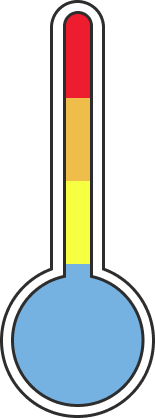
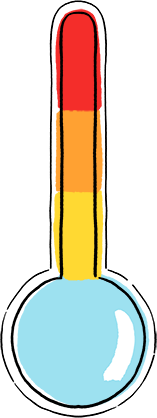
New graphics

diff --git a/src/styles.scss b/src/styles.scss
@@ -621,8 +621,6 @@ footer a {
 
   .thermo-left {
     flex: 1 1 55%;
-    background: linear-gradient(to top, #7FD3ED, #A9B758);
-    border-radius: 1rem 0 0 1rem;
   }
 
   /* Prawa kolumna */
@@ -703,7 +701,7 @@ footer a {
     left: 91px;
     /* dopasowane do Twojej rury (track: 106px, szer. uchwytu ~38px) */
     width: 38px;
-    height: 61px;
+    height: 26px;
     cursor: grab;
     z-index: 2;
     /* ponad notką i tłem */
@@ -730,11 +728,15 @@ footer a {
     left: 190px;
     min-width: 500px;
     max-width: 620px;
-    padding: 10px 12px;
+    padding: 15px 21px;
     border-radius: 10px;
-    box-shadow: 0 6px 18px rgba(0, 0, 0, .08);
+    // box-shadow: 0 6px 18px rgba(0, 0, 0, 0.08);
     line-height: 1.35;
     z-index: 3;
+    filter: drop-shadow(2px 4px 6px rgba(0, 0, 0, .1));
+    height: 150px;
+    display: flex;
+    align-items: center;
     /* ponad notką */
 
     .bubble-inner {
@@ -751,18 +753,21 @@ footer a {
   }
 
   .zone-yellow {
-    background: #fff8cc;
-    border: 2px solid #ffde69;
+    // background: #fff8cc;
+    // border: 2px solid #ffde69;
+        background: url('./assets/task3/zlosc.png') center/100% no-repeat;
   }
 
   .zone-orange {
-    background: #ffe6c9;
-    border: 2px solid #ffb566;
+    // background: #ffe6c9;
+    // border: 2px solid #ffb566;
+    background: url('./assets/task3/duza-zlosc.png') center/100% no-repeat;
   }
 
   .zone-red {
-    background: #ffe4e4;
-    border: 2px solid #ff6b6b;
+    // background: #ffe4e4;
+    // border: 2px solid #ff6b6b;
+    background: url('./assets/task3/bardzo-duza-zlosc.png') center/100% no-repeat;
   }
 
   /* --- NOWOŚĆ: krótka notka obok termometru --- */

diff --git a/src/js/views/view14.js b/src/js/views/view14.js
@@ -165,6 +165,6 @@ export const logicFunc = (onSuccess) => {
   track.addEventListener('touchstart', startOnTrack, { passive: true });
 
   // Pozycja startowa: suwak na -60px, bąbel ukryty
-  handle.style.top = `-${60}px`;
+  handle.style.top = `-${30}px`;
   bubble.classList.add('d-none');
 };
